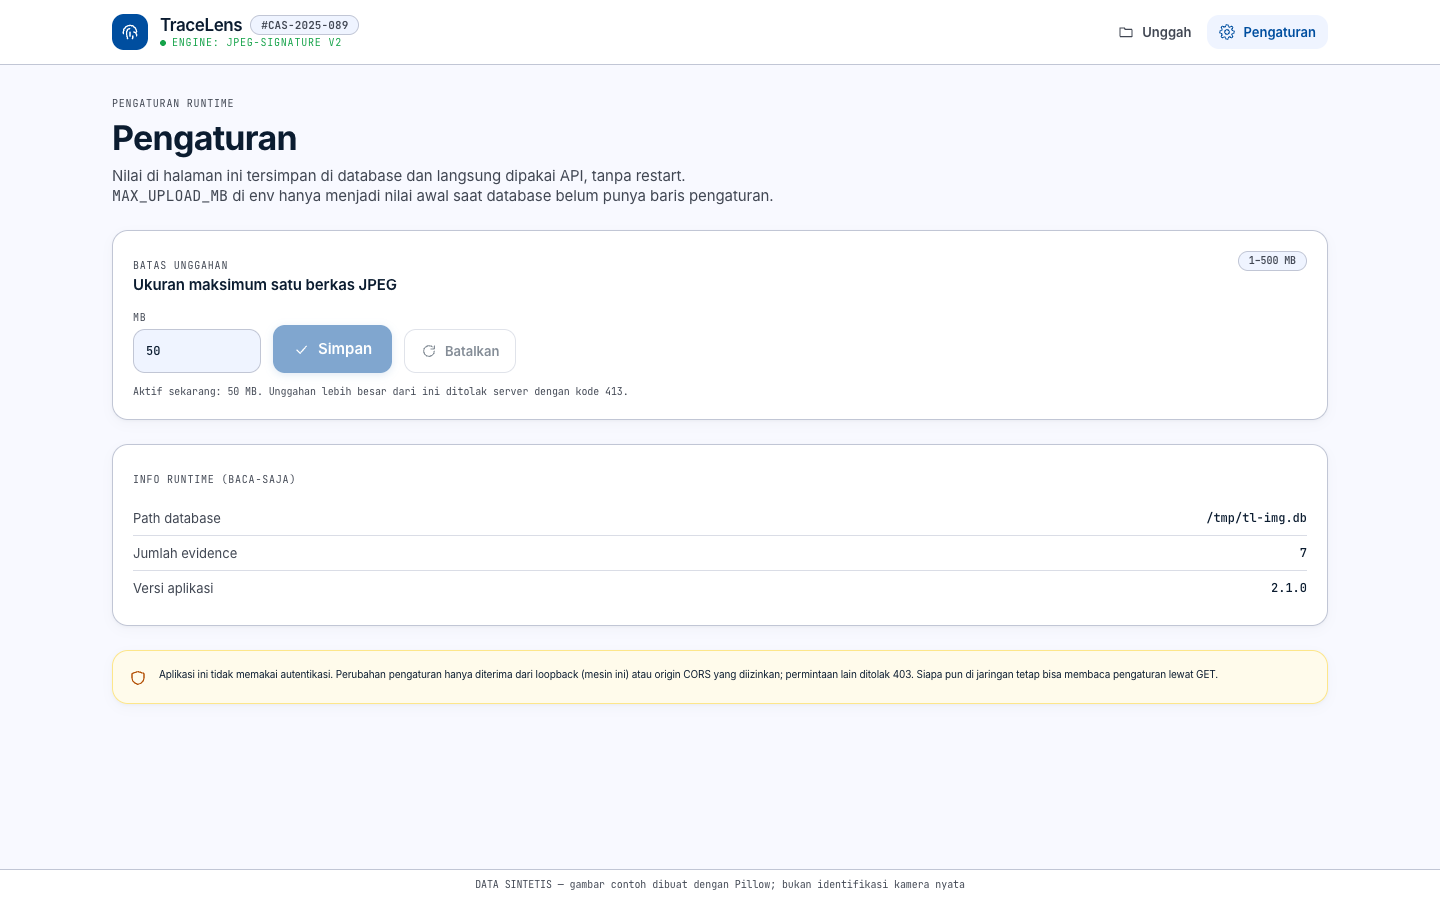
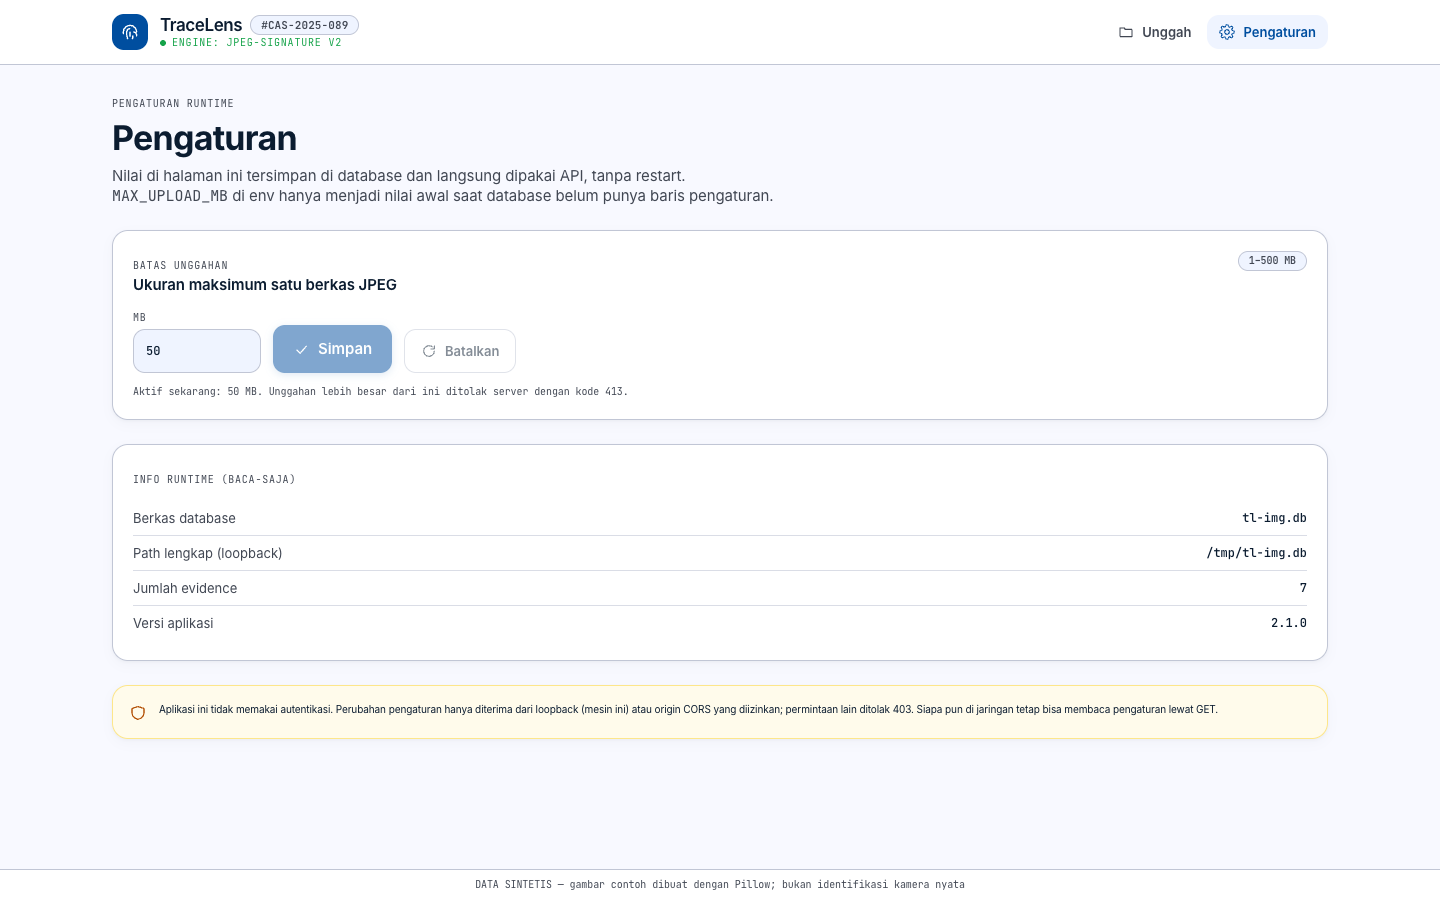
fix(settings): stop leaking the absolute database path to LAN callers
GET /api/settings returned db_path (username + project layout) to anyone who
could reach the port. Now:

- response carries db_file (basename) for every caller; db_path is filled only
  when the request comes from loopback and is null otherwise
- /pengaturan shows 'Berkas database' always and 'Path lengkap (loopback)' only
  when the API sent one, with a note for network callers
- types + README updated

Also fixes the stale client state QA reported: the upload page refetches
settings and the evidence list on window focus / visibilitychange, so a limit
changed in /pengaturan or a row deleted elsewhere lands without a reload.

diff --git a/frontend/src/views/SettingsView.vue b/frontend/src/views/SettingsView.vue
@@ -132,8 +132,18 @@ onMounted(load)
         <span class="kicker text-[10px]">INFO RUNTIME (BACA-SAJA)</span>
         <dl class="mt-3 divide-y divide-outline-variant/60">
           <div class="flex flex-wrap items-center justify-between gap-2 py-2">
-            <dt class="text-body-sm text-on-surface-variant">Path database</dt>
+            <dt class="text-body-sm text-on-surface-variant">Berkas database</dt>
+            <dd class="break-all font-mono text-label-md tabular">{{ settings?.db_file }}</dd>
+          </div>
+          <div v-if="settings?.db_path" class="flex flex-wrap items-center justify-between gap-2 py-2">
+            <dt class="text-body-sm text-on-surface-variant">Path lengkap (loopback)</dt>
             <dd class="break-all font-mono text-label-md tabular">{{ settings?.db_path }}</dd>
+          </div>
+          <div v-else class="py-2">
+            <p class="text-code-sm text-on-surface-variant">
+              Path lengkap hanya dikirim ke pemanggil dari mesin ini; dari jaringan hanya nama
+              berkas.
+            </p>
           </div>
           <div class="flex flex-wrap items-center justify-between gap-2 py-2">
             <dt class="text-body-sm text-on-surface-variant">Jumlah evidence</dt>

diff --git a/frontend/src/views/UploadView.vue b/frontend/src/views/UploadView.vue
@@ -1,5 +1,5 @@
 <script setup lang="ts">
-import { computed, onMounted, ref } from 'vue'
+import { computed, onMounted, onUnmounted, ref } from 'vue'
 import { useRouter } from 'vue-router'
 import AppIcon from '../components/AppIcon.vue'
 import { api, ApiError } from '../api'
@@ -101,7 +101,19 @@ async function remove(id: string) {
   }
 }
 
-onMounted(refresh)
+function refreshIfVisible() {
+  if (document.visibilityState === 'visible' && !busy.value) void refresh()
+}
+
+onMounted(() => {
+  void refresh()
+  window.addEventListener('focus', refreshIfVisible)
+  document.addEventListener('visibilitychange', refreshIfVisible)
+})
+onUnmounted(() => {
+  window.removeEventListener('focus', refreshIfVisible)
+  document.removeEventListener('visibilitychange', refreshIfVisible)
+})
 </script>
 
 <template>

diff --git a/frontend/src/types.ts b/frontend/src/types.ts
@@ -72,7 +72,8 @@ export interface Match {
 
 export interface AppSettings {
   max_upload_mb: number
-  db_path: string
+  db_file: string
+  db_path: string | null
   evidence_count: number
   app_version: string
 }

diff --git a/backend/app/routes_settings.py b/backend/app/routes_settings.py
@@ -15,10 +15,17 @@ APP_VERSION = "2.1.0"
 LOOPBACK = {"127.0.0.1", "::1", "localhost"}
 
 
-def _payload() -> AppSettings:
+def _is_loopback(request: Request) -> bool:
+    return (request.client.host if request.client else "") in LOOPBACK
+
+
+def _payload(request: Request) -> AppSettings:
+    """Absolute paths (and with them the username) only go to callers on this machine."""
+    path = settings().db_path
     return AppSettings(
         max_upload_mb=runtime_settings.max_upload_mb(),
-        db_path=str(settings().db_path),
+        db_file=path.name,
+        db_path=str(path) if _is_loopback(request) else None,
         evidence_count=db.row("SELECT COUNT(*) AS n FROM evidence")["n"],
         app_version=APP_VERSION,
     )
@@ -38,12 +45,12 @@ def _require_local(request: Request) -> None:
 
 
 @router.get("", response_model=AppSettings)
-def read_settings() -> AppSettings:
-    return _payload()
+def read_settings(request: Request) -> AppSettings:
+    return _payload(request)
 
 
 @router.patch("", response_model=AppSettings)
 def update_settings(body: SettingsPatch, request: Request) -> AppSettings:
     _require_local(request)
     runtime_settings.set_int(runtime_settings.MAX_UPLOAD_KEY, body.max_upload_mb)
-    return _payload()
+    return _payload(request)

diff --git a/backend/app/models.py b/backend/app/models.py
@@ -81,7 +81,8 @@ class MatchOut(BaseModel):
 
 class AppSettings(BaseModel):
     max_upload_mb: int
-    db_path: str
+    db_file: str
+    db_path: str | None = None  # absolute path, loopback callers only
     evidence_count: int
     app_version: str
 
